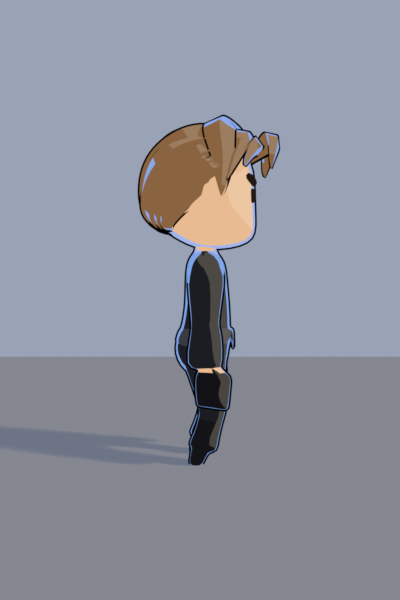
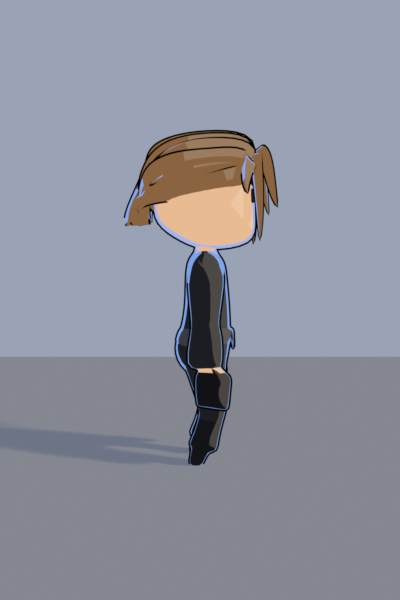
Luke hair = pack Casual2_Female hair (owner reference), brown, ponytail cut

Changed region(s): [[0.3, 0.18, 0.72, 0.42], [0.48, 0.42, 0.51, 0.45]]

diff --git a/kit/starwars.py b/kit/starwars.py
@@ -513,14 +513,13 @@ def build_luke(col: bpy.types.Collection | None = None) -> Q.QChar:
     boots = L.toon2("luke_boots", "#141418")
     Q.assign(qc, boots, bones=["Foot.L", "Foot.R"])
     Q.assign(qc, boots, bones=["LowerLeg.L", "LowerLeg.R"], z_range=(-1.0, 0.45))
-    # owner 2026-09-26: back to the first hair (the pack's Casual_Male hair, like Ken's), brown, fringe lifted a little
-    # off the brows (luke_hair() = the sculpted alternative, kept but unused)
-    part = Q.take_part(qc, "Casual_Male.blend", "Hair", "hair", hair)
-    for v in part.data.vertices:
-        if v.co.y < 0.0:
-            t_ = max(0.0, min(1.0, (3.0 - v.co.z) / 0.8))
-            v.co.z += 0.16 * t_
-    part.data.update()
+    # owner 2026-09-26 (reference image): the pack's Casual_Female hair — swept layered fringe, longer strands on one
+    # side — in brown (luke_hair() = the sculpted alternative, kept but unused)
+    part = Q.take_part(qc, "Casual2_Female.blend", "Hair", "hair", hair)
+    bmh = bmesh.new(); bmh.from_mesh(part.data)                # cut the pack's ponytail (not in the owner's reference)
+    pony = [f for f in bmh.faces if f.calc_center_median().y > 0.2 and f.calc_center_median().z < 2.35]
+    bmesh.ops.delete(bmh, geom=pony, context="FACES")
+    bmh.to_mesh(part.data); bmh.free(); part.data.update()
     Q.smooth(qc)
     Q.outline(qc.body, 0.010)
     Q.outline(part, 0.010)
